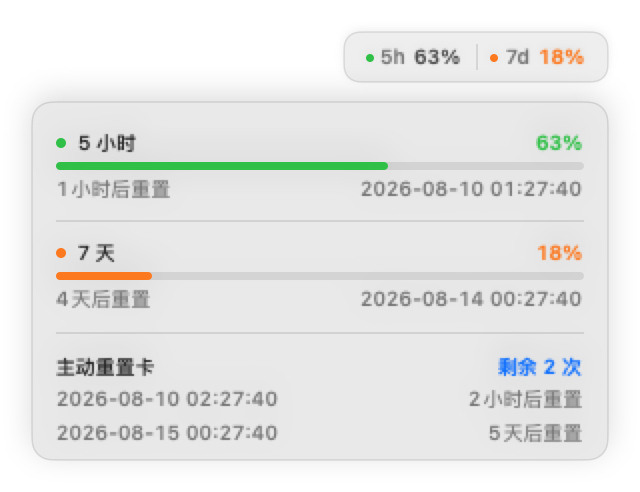
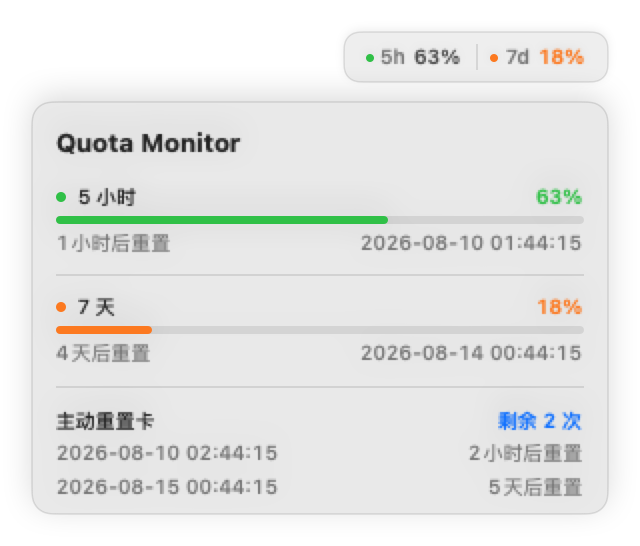
Add title to Codex quota details

diff --git a/Tests/QuotaMonitorTests/CodexQuotaOverlayTests.swift b/Tests/QuotaMonitorTests/CodexQuotaOverlayTests.swift
@@ -242,17 +242,17 @@ struct CodexQuotaOverlayTests {
 
         #expect(CodexQuotaOverlayLayout.detailsContentHeight(
             presentation: presentation,
-            resetCredits: nil) == 115)
+            resetCredits: nil) == 142)
         #expect(CodexQuotaOverlayLayout.detailsContentHeight(
             presentation: presentation,
-            resetCredits: resetCredits) == 195)
+            resetCredits: resetCredits) == 222)
         #expect(CodexQuotaOverlayLayout.detailsFrame(
             in: CGRect(x: 0, y: 0, width: 1_920, height: 1_080),
-            contentHeight: 195) == CGRect(
+            contentHeight: 222) == CGRect(
                 x: 144,
                 y: 43,
                 width: 288,
-                height: 195))
+                height: 222))
 
         let cached = CodexQuotaOverlayPresentation.make(
             snapshot: snapshot(
@@ -264,7 +264,7 @@ struct CodexQuotaOverlayTests {
         #expect(cached.isCached)
         #expect(CodexQuotaOverlayLayout.detailsContentHeight(
             presentation: cached,
-            resetCredits: nil) == 115)
+            resetCredits: nil) == 142)
         #expect(CodexQuotaOverlayLayout.detailsFrame(
             in: CGRect(x: -1_200, y: 200, width: 600, height: 320),
             contentHeight: 300) == CGRect(
@@ -436,6 +436,7 @@ struct CodexQuotaOverlayTests {
         #expect(source.contains("detailsPanel"))
         #expect(source.contains("addGlobalMonitorForEvents"))
         #expect(!source.contains("isDetailsPinned"))
+        #expect(viewSource.contains("Text(Branding.appDisplayName)"))
         #expect(viewSource.contains("QuotaWindowCompactLabel.fiveHour"))
         #expect(viewSource.contains("QuotaWindowCompactLabel.sevenDay"))
         let pollingStart = try #require(

diff --git a/QuotaMonitor/App/CodexQuotaOverlayModel.swift b/QuotaMonitor/App/CodexQuotaOverlayModel.swift
@@ -232,6 +232,7 @@ enum CodexQuotaOverlayLayout {
     static let size = CGSize(width: 132, height: 25)
     static let singleWindowWidth: CGFloat = 84
     static let detailsWidth: CGFloat = 288
+    static let detailsHeaderHeight: CGFloat = 27
     static let windowIdentifier = "codex-quota-overlay"
     static let detailsWindowIdentifier = "codex-quota-overlay-details"
     private static let legacyAccountRowTrailingOffset: CGFloat = 432
@@ -284,7 +285,7 @@ enum CodexQuotaOverlayLayout {
             .count
         guard windowCount > 0 else { return 0 }
 
-        var height: CGFloat = 24
+        var height: CGFloat = 24 + detailsHeaderHeight
         height += CGFloat(windowCount) * 38
         height += CGFloat(max(0, windowCount - 1)) * 15
 

diff --git a/QuotaMonitor/App/CodexQuotaOverlayView.swift b/QuotaMonitor/App/CodexQuotaOverlayView.swift
@@ -174,6 +174,14 @@ struct CodexQuotaOverlayDetailsView: View {
 
             ScrollView(.vertical) {
                 VStack(alignment: .leading, spacing: 0) {
+                    Text(Branding.appDisplayName)
+                        .font(.headline)
+                        .frame(
+                            maxWidth: .infinity,
+                            minHeight: CodexQuotaOverlayLayout.detailsHeaderHeight,
+                            alignment: .topLeading)
+                        .accessibilityAddTraits(.isHeader)
+
                     if let fiveHour = presentation.fiveHour {
                         quotaWindow(
                             title: L10n.quotaCardTitle5h,

diff --git a/design-qa.md b/design-qa.md
@@ -1,4 +1,70 @@
-# Codex native quota widget design QA
+# Codex hover-card title design QA
+
+## Evidence
+
+- Source visual truth: `/var/folders/4f/qnyg3l7d66v_4k0vzwx69jk40000gn/T/codex-clipboard-e7eb2489-968d-40a7-a8d1-770f56f1c76a.png`
+- Implementation screenshot: `docs/assets/pr/codex-sidebar-quota/refined-widget-zh-Hans.png`
+- Focused comparison: `docs/assets/pr/codex-sidebar-quota/refined-widget-title-comparison.png`
+- Source pixels: 714 x 712; source component is a full menu-bar popover capture.
+- Implementation pixels: 640 x 546; SwiftUI canvas is 320 x 273 points at 2x density.
+- State: light appearance, Simplified Chinese, synthetic quota/reset-credit data, hover details open.
+
+## Findings
+
+No actionable P0, P1, or P2 differences remain for the requested title region.
+
+- Typography: the implementation now uses the exact `Quota Monitor` product
+  name and the app's native `.headline` style, matching the existing menu-bar
+  header's family, weight, and semantic hierarchy.
+- Spacing and layout rhythm: the 288-point detail card keeps its existing
+  12-point content inset and reserves a 27-point top header slot, leaving clear
+  separation before the first quota row without widening the card.
+- Colors and visual tokens: the title uses the native primary foreground on the
+  existing material card. Quota colors and the card background are unchanged.
+- Image quality and asset fidelity: both compared titles are native system text;
+  the implementation capture is rendered at 2x density. No raster replacement,
+  custom icon, or generated asset is involved.
+- Copy and content: the title comes from `Branding.appDisplayName`, so it stays
+  identical to the menu-bar popover and remains correct for branded variants.
+
+The full source and implementation components are intentionally not 1:1: the
+source is the complete menu-bar popover, while the implementation is a compact
+Codex-window hover card. The focused board isolates the requested upper-left
+title treatment, so surrounding controls do not create false mismatches.
+
+## Comparison history
+
+1. Initial state: the hover card began directly with the 5-hour quota row and
+   omitted the source's upper-left product title. This was a P2 hierarchy and
+   product-identification mismatch.
+2. Fix: added `Branding.appDisplayName` as an accessible native headline and
+   increased the calculated detail height by 27 points.
+3. Post-fix evidence: the focused comparison shows the `Quota Monitor` title in
+   the same upper-left role; the complete implementation screenshot shows no
+   clipping, overlap, wrapping, or quota-layout regression.
+
+## Implementation checklist
+
+- [x] Product title appears in the hover detail card.
+- [x] Title reuses the menu popover's branding source and headline hierarchy.
+- [x] Detail geometry accounts for the header at one- and two-window sizes.
+- [x] Simplified Chinese fixture screenshot renders without clipping.
+- [x] Focused source/implementation comparison contains no P0-P2 mismatch.
+
+## Follow-up polish
+
+None required for this scoped title change.
+
+final result: passed
+
+
+---
+
+# Codex native quota widget baseline design QA (historical)
+
+> This section preserves the initial native-overlay QA record for the earlier
+> 464-point, click-pinned card. The current 288-point hover-card treatment and
+> its latest title comparison are documented in the section above.
 
 **Source visual truth**
 

diff --git a/docs/assets/pr/codex-sidebar-quota/README.md b/docs/assets/pr/codex-sidebar-quota/README.md
@@ -25,14 +25,25 @@ SHA-256:
 
 `refined-widget-zh-Hans.png` is a native SwiftUI fixture render of the exact
 summary and detail views used by the isolated QA build. It shows the shared
-`5h` / `7d` compact labels, the refined segmented summary, and the 288-point
-detail card with synthetic quota and reset-credit data. No account identity,
-credential, or conversation content is included. The host-app interaction
-could not be captured through Computer Use because the safety layer does not
-permit controlling the Codex app that hosts the current task.
+`5h` / `7d` compact labels, the refined segmented summary, and the branded
+288-point detail card with synthetic quota and reset-credit data. The detail
+card begins with the same `Quota Monitor` product title used by the menu-bar
+popover. No account identity, credential, or conversation content is included.
+The host-app interaction could not be captured through Computer Use because
+the safety layer does not permit controlling the Codex app that hosts the
+current task.
 
 SHA-256:
[2 lines of base64/hex data omitted]
+
+`refined-widget-title-comparison.png` is the focused visual comparison for the
+title change. The left crop is the supplied menu-bar reference; the right crop
+is the exact native hover-card render after the change. It intentionally
+compares only the requested product-title region because the two surrounding
+components have different roles and dimensions.
+
+SHA-256:
[1 lines of base64/hex data omitted]
 
 ## Legacy reference
 

diff --git a/CHANGELOG.md b/CHANGELOG.md
@@ -32,12 +32,12 @@ window copy.
 
 #### Summary
 
-- The Codex window widget now matches the menu bar's 5h/7d labels, uses a more polished compact style, and opens a narrower detail card that dismisses naturally.
+- The Codex window widget now matches the menu bar's 5h/7d labels, uses a more polished compact style, and opens a clearly branded, narrower detail card that dismisses naturally.
 - Dates and times in Sessions, History, Activity, and Trends now match the language selected inside Quota Monitor.
 
 ### Fixed
 
-- **Refined Codex quota widget.** The window widget and menu bar now share the same compact quota labels, while the anchored detail card is narrower and closes after pointer exit or a click elsewhere instead of remaining pinned.
+- **Refined Codex quota widget.** The window widget and menu bar now share the same compact quota labels, while the anchored detail card starts with the Quota Monitor name, stays narrow, and closes after pointer exit or a click elsewhere instead of remaining pinned.
 - **Dates follow the app language.** Sessions, History, Activity, and Trends now format visible dates and times using Quota Monitor's selected language instead of the macOS system locale.
 
 ## [1.0.0] — 2026-08-09

diff --git a/CHANGELOG.zh-Hans.md b/CHANGELOG.zh-Hans.md
@@ -26,12 +26,12 @@ appcast 中按系统语言切换的双语更新说明。
 
 #### Summary
 
-- Codex 窗口挂件现在会与状态栏统一使用 5h／7d 标签，外观更精致紧凑，并以更窄、可自然收起的卡片显示详情。
+- Codex 窗口挂件现在会与状态栏统一使用 5h／7d 标签，外观更精致紧凑，并以带有 Quota Monitor 标题、更窄且可自然收起的卡片显示详情。
 - 会话、历史、使用画像和趋势中的日期与时间现在会匹配 Quota Monitor 内选择的语言。
 
 ### 修复
 
-- **优化 Codex 额度挂件。** 窗口挂件与状态栏现在共用同一组紧凑额度标签；详情卡收窄并贴着挂件展开，移开指针或点击外部即可关闭，不再保持固定。
+- **优化 Codex 额度挂件。** 窗口挂件与状态栏现在共用同一组紧凑额度标签；详情卡会在左上角显示 Quota Monitor 标题，收窄后贴着挂件展开，移开指针或点击外部即可关闭，不再保持固定。
 - **日期跟随应用语言。** 会话、历史、使用画像和趋势中的可见日期与时间现在会使用 Quota Monitor 选择的语言格式化，不再跟随 macOS 系统语言。
 
 ## [1.0.0] — 2026-08-09
